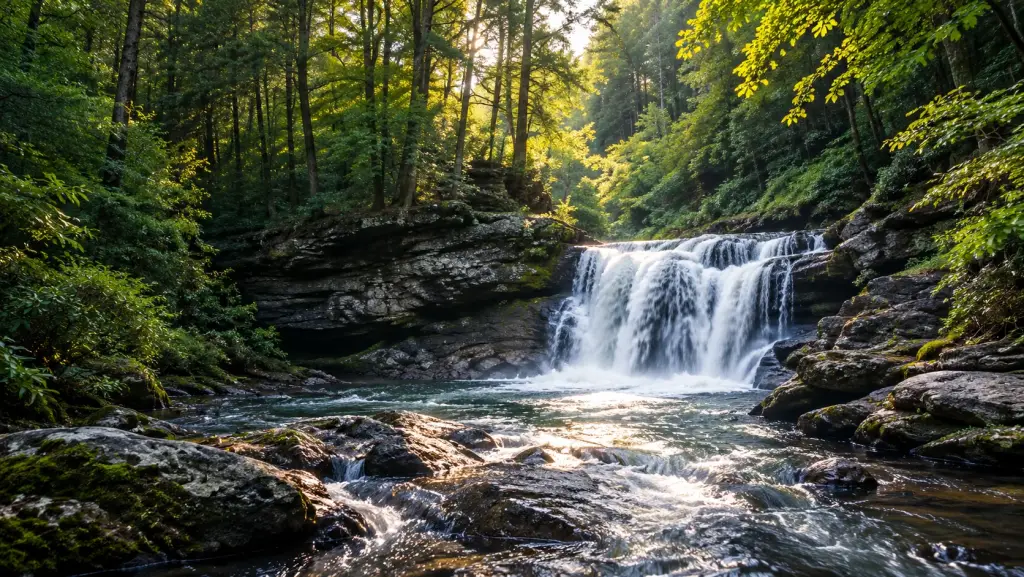
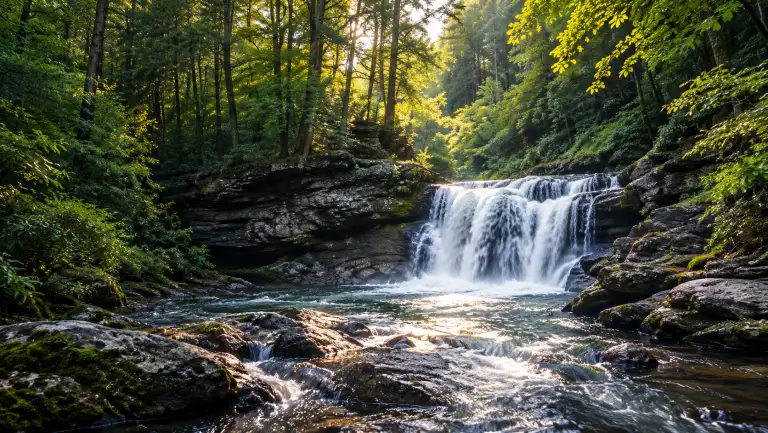
Optimize homepage image delivery

diff --git a/index.html b/index.html
@@ -279,7 +279,7 @@
        <article class="cell project-card card card--source">
         <div class="project-card-media">
          <div class="home-project-image is-illustration">
-          <img alt="" data-project-src="smithfield-gateway.image" decoding="async" height="577" loading="lazy" src="assets/scale-datacenter-trim.webp" width="1195"/>
+          <img alt="" data-project-src="smithfield-gateway.image" decoding="async" height="577" loading="lazy" sizes="(max-width: 760px) calc(100vw - 40px), (max-width: 1100px) calc(50vw - 50px), 286px" src="assets/scale-datacenter-trim.webp" srcset="assets/scale-datacenter-card-384.webp 384w, assets/scale-datacenter-card.webp 768w, assets/scale-datacenter-trim.webp 1195w" width="1195"/>
           <span class="home-project-caption" data-project-text="smithfield-gateway.caption">
            Scale illustration · not a project rendering
           </span>
@@ -316,7 +316,7 @@
        <article class="cell project-card card card--source">
         <div class="project-card-media">
          <div class="home-project-image">
-          <img alt="" decoding="async" height="724" loading="lazy" src="assets/misty-forest.webp" width="2172"/>
+          <img alt="" decoding="async" height="724" loading="lazy" sizes="(max-width: 760px) calc(100vw - 40px), (max-width: 1100px) calc(50vw - 50px), 286px" src="assets/misty-forest.webp" srcset="assets/misty-forest-card-384.webp 384w, assets/misty-forest-card.webp 768w, assets/misty-forest.webp 2172w" width="2172"/>
           <span class="home-project-caption">
            Regional landscape · not site photography
           </span>
@@ -352,7 +352,7 @@
        <article class="cell project-card card card--source">
         <div class="project-card-media">
          <div class="home-project-image">
-          <img alt="" data-project-src="shawnee-walker.image" decoding="async" height="821" loading="lazy" src="assets/forest-dark.webp" width="1916"/>
+          <img alt="" data-project-src="shawnee-walker.image" decoding="async" height="821" loading="lazy" sizes="(max-width: 760px) calc(100vw - 40px), (max-width: 1100px) calc(50vw - 50px), 286px" src="assets/forest-dark.webp" srcset="assets/forest-dark-card-384.webp 384w, assets/forest-dark-card.webp 768w, assets/forest-dark.webp 1916w" width="1916"/>
           <span class="home-project-caption" data-project-text="shawnee-walker.caption">
            Regional landscape · not site photography
           </span>
@@ -389,7 +389,7 @@
        <article class="cell project-card card card--source">
         <div class="project-card-media">
          <div class="home-project-image">
-          <img alt="" data-project-src="eagle-village.image" decoding="async" height="724" loading="lazy" src="assets/mountains-sunset.webp" width="2172"/>
+          <img alt="" data-project-src="eagle-village.image" decoding="async" height="724" loading="lazy" sizes="(max-width: 760px) calc(100vw - 40px), (max-width: 1100px) calc(50vw - 50px), 286px" src="assets/mountains-sunset.webp" srcset="assets/mountains-sunset-card-384.webp 384w, assets/mountains-sunset-card.webp 768w, assets/mountains-sunset.webp 2172w" width="2172"/>
           <span class="home-project-caption" data-project-text="eagle-village.caption">
            Regional landscape · not site photography
           </span>
@@ -584,7 +584,7 @@
      </div>
     </section>
     <section class="scale scale-frame" id="scale">
-     <img alt="" aria-hidden="true" class="scale-bg-image" decoding="async" height="724" loading="lazy" src="./assets/misty-forest.webp" width="2172"/>
+     <img alt="" aria-hidden="true" class="scale-bg-image" decoding="async" height="724" loading="lazy" sizes="100vw" src="./assets/misty-forest.webp" srcset="./assets/misty-forest-mobile.webp 1024w, ./assets/misty-forest-1440.webp 1440w, ./assets/misty-forest.webp 2172w" width="2172"/>
      <div aria-hidden="true" class="scale-fade">
      </div>
      <div class="grid-container section-inner responsive-grid columns-2 grid-x scale-intro-grid">
@@ -636,16 +636,16 @@
         </p>
         <div class="scale-bars-row">
          <div class="scale-bar-home">
-          <img alt="Typical home" class="scale-bar-image" decoding="async" height="504" loading="lazy" src="./assets/scale-house-trim.webp" width="926"/>
+          <img alt="Typical home" class="scale-bar-image" decoding="async" height="262" loading="lazy" sizes="220px" src="./assets/scale-house-small.webp" srcset="./assets/scale-house-tiny.webp 240w, ./assets/scale-house-small.webp 480w" width="480"/>
          </div>
          <div class="scale-bar-warehouse">
-          <img alt="Warehouse" class="scale-bar-image" decoding="async" height="575" loading="lazy" src="./assets/scale-warehouse-trim.webp" width="1166"/>
+          <img alt="Warehouse" class="scale-bar-image" decoding="async" height="237" loading="lazy" sizes="220px" src="./assets/scale-warehouse-small.webp" srcset="./assets/scale-warehouse-tiny.webp 240w, ./assets/scale-warehouse-small.webp 480w" width="480"/>
          </div>
          <div class="scale-bar-datacenter">
-          <img alt="Data center" class="scale-bar-image" decoding="async" height="577" loading="lazy" src="./assets/scale-datacenter-trim.webp" width="1195"/>
+          <img alt="Data center" class="scale-bar-image" decoding="async" height="232" loading="lazy" sizes="220px" src="./assets/scale-datacenter-small.webp" srcset="./assets/scale-datacenter-tiny.webp 240w, ./assets/scale-datacenter-small.webp 480w" width="480"/>
          </div>
          <div class="scale-bar-campus">
-          <img alt="Full data center campus" class="scale-bar-image" decoding="async" height="726" loading="lazy" src="./assets/scale-campus-trim.webp" width="1246"/>
+          <img alt="Full data center campus" class="scale-bar-image" decoding="async" height="280" loading="lazy" sizes="220px" src="./assets/scale-campus-small.webp" srcset="./assets/scale-campus-tiny.webp 240w, ./assets/scale-campus-small.webp 480w" width="480"/>
          </div>
         </div>
         <div class="scale-axis">

diff --git a/assets/js/analytics.js b/assets/js/analytics.js
@@ -1,7 +1,7 @@
 /* Google Analytics 4: public domain only; never track local previews.
-   The gtag library is fetched lazily — on the first interaction, or when the
-   browser goes idle — so it does not compete with initial render. Config is
-   queued immediately and flushes once the library loads. */
+   The gtag library is fetched on the first interaction, with a delayed fallback
+   for engaged readers, so third-party code never competes with initial render.
+   Config is queued immediately and flushes once the library loads. */
 (() => {
   if (!['protectourpoconos.com', 'www.protectourpoconos.com'].includes(location.hostname)) return;
   window.dataLayer = window.dataLayer || [];
@@ -21,6 +21,5 @@
   for (const type of ['pointerdown', 'keydown', 'scroll', 'touchstart']) {
     window.addEventListener(type, loadGtag, { once: true, passive: true });
   }
-  if ('requestIdleCallback' in window) requestIdleCallback(loadGtag, { timeout: 5000 });
-  else window.addEventListener('load', () => setTimeout(loadGtag, 3000));
+  window.addEventListener('load', () => setTimeout(loadGtag, 30000), { once: true });
 })();

diff --git a/scripts/optimize-images.py b/scripts/optimize-images.py
@@ -1,9 +1,7 @@
-"""Generate mobile-width variants of the large hero background images (needs cwebp).
+"""Build the responsive WebP variants used by the site.
 
-The full-resolution heroes are heavy (the homepage waterfall is ~450 KB) and phones
-render them small, so the page CSS serves a narrower variant under a mobile media
-query. Re-run this after replacing any source image, and commit the *-mobile.webp
-files it writes.
+Source PNGs remain the master artwork. Keeping every derivative here makes image
+compression reproducible instead of relying on one-off editor exports.
 
     python3 scripts/optimize-images.py
 """
@@ -12,20 +10,47 @@ from pathlib import Path
 
 ROOT = Path(__file__).resolve().parents[1]
 ASSETS = ROOT / 'assets'
-WIDTH = 1024
-QUALITY = 72
-# Above-the-fold page hero backgrounds. forest-dark (~27 KB) is already small; skipped.
-SOURCES = ['hero-waterfall', 'faq-hero', 'take-action-hero', 'resources-hero',
-           'mountains-sunset', 'misty-mountains', 'misty-forest', 'forest-silhouette']
+# filename, output filename, width (0 preserves source width), WebP quality
+DERIVATIVES = [
+    ('hero-waterfall.png', 'hero-waterfall.webp', 0, 60),
+    ('hero-waterfall.png', 'hero-waterfall-mobile.webp', 768, 60),
+    ('faq-hero.webp', 'faq-hero-mobile.webp', 1024, 72),
+    ('take-action-hero.webp', 'take-action-hero-mobile.webp', 1024, 72),
+    ('resources-hero.webp', 'resources-hero-mobile.webp', 1024, 72),
+    ('mountains-sunset.webp', 'mountains-sunset-mobile.webp', 1024, 72),
+    ('misty-mountains.webp', 'misty-mountains-mobile.webp', 1024, 72),
+    ('misty-forest.webp', 'misty-forest-mobile.webp', 1024, 72),
+    ('forest-silhouette.webp', 'forest-silhouette-mobile.webp', 1024, 72),
+    ('scale-datacenter-trim.png', 'scale-datacenter-card.webp', 768, 68),
+    ('scale-datacenter-trim.png', 'scale-datacenter-card-384.webp', 384, 68),
+    ('misty-forest.png', 'misty-forest-card.webp', 768, 68),
+    ('misty-forest.png', 'misty-forest-card-384.webp', 384, 68),
+    ('forest-dark.png', 'forest-dark-card.webp', 768, 68),
+    ('forest-dark.png', 'forest-dark-card-384.webp', 384, 68),
+    ('mountains-sunset.png', 'mountains-sunset-card.webp', 768, 68),
+    ('mountains-sunset.png', 'mountains-sunset-card-384.webp', 384, 68),
+    ('misty-forest.png', 'misty-forest-1440.webp', 1440, 68),
+    ('scale-house-trim.png', 'scale-house-small.webp', 480, 70),
+    ('scale-house-trim.png', 'scale-house-tiny.webp', 240, 70),
+    ('scale-warehouse-trim.png', 'scale-warehouse-small.webp', 480, 70),
+    ('scale-warehouse-trim.png', 'scale-warehouse-tiny.webp', 240, 70),
+    ('scale-datacenter-trim.png', 'scale-datacenter-small.webp', 480, 70),
+    ('scale-datacenter-trim.png', 'scale-datacenter-tiny.webp', 240, 70),
+    ('scale-campus-trim.png', 'scale-campus-small.webp', 480, 70),
+    ('scale-campus-trim.png', 'scale-campus-tiny.webp', 240, 70),
+]
 
 
 def main():
-    for stem in SOURCES:
-        src = ASSETS / f'{stem}.webp'
-        dst = ASSETS / f'{stem}-mobile.webp'
-        subprocess.run(['cwebp', '-quiet', '-q', str(QUALITY), '-resize', str(WIDTH), '0',
-                        str(src), '-o', str(dst)], check=True)
-        print(f'{dst.name}: {dst.stat().st_size // 1024} KB (from {src.stat().st_size // 1024} KB)')
+    for source_name, output_name, width, quality in DERIVATIVES:
+        src = ASSETS / source_name
+        dst = ASSETS / output_name
+        command = ['cwebp', '-quiet', '-q', str(quality)]
+        if width:
+            command.extend(['-resize', str(width), '0'])
+        command.extend([str(src), '-o', str(dst)])
+        subprocess.run(command, check=True)
+        print(f'{dst.name}: {dst.stat().st_size // 1024} KB')
 
 
 if __name__ == '__main__':

diff --git a/README.md b/README.md
@@ -91,7 +91,7 @@ Build-time efficiencies keep the payload down without changing how you author:
 
 ## Images
 
-Hero backgrounds are heavy at full resolution and phones render them small, so `scripts/optimize-images.py` generates `-mobile.webp` variants (~1024 px wide) with `cwebp`, and each page's CSS swaps to them under `@media (max-width: 800px)` (the homepage additionally preloads the matching variant per breakpoint). Re-run the script after replacing a source hero image and commit the regenerated variants. `assets/js/analytics.js` also loads Google Analytics lazily (first interaction or idle) so it stays off the critical path.
+`scripts/optimize-images.py` generates the site's responsive WebP derivatives with `cwebp`, including mobile hero backgrounds, homepage project-card images and compact scale-comparison art. Source PNGs remain the master artwork. The homepage preloads the matching waterfall variant per breakpoint and its inline images provide explicit `srcset`/`sizes` hints so browsers do not download full-width art for small cards. Re-run the script after replacing a source image and commit the regenerated variants. `assets/js/analytics.js` loads Google Analytics on first interaction, with a 30-second fallback for engaged readers, so the third-party library stays off the initial performance trace.
 
 ## Search metadata, feed and 404
 
